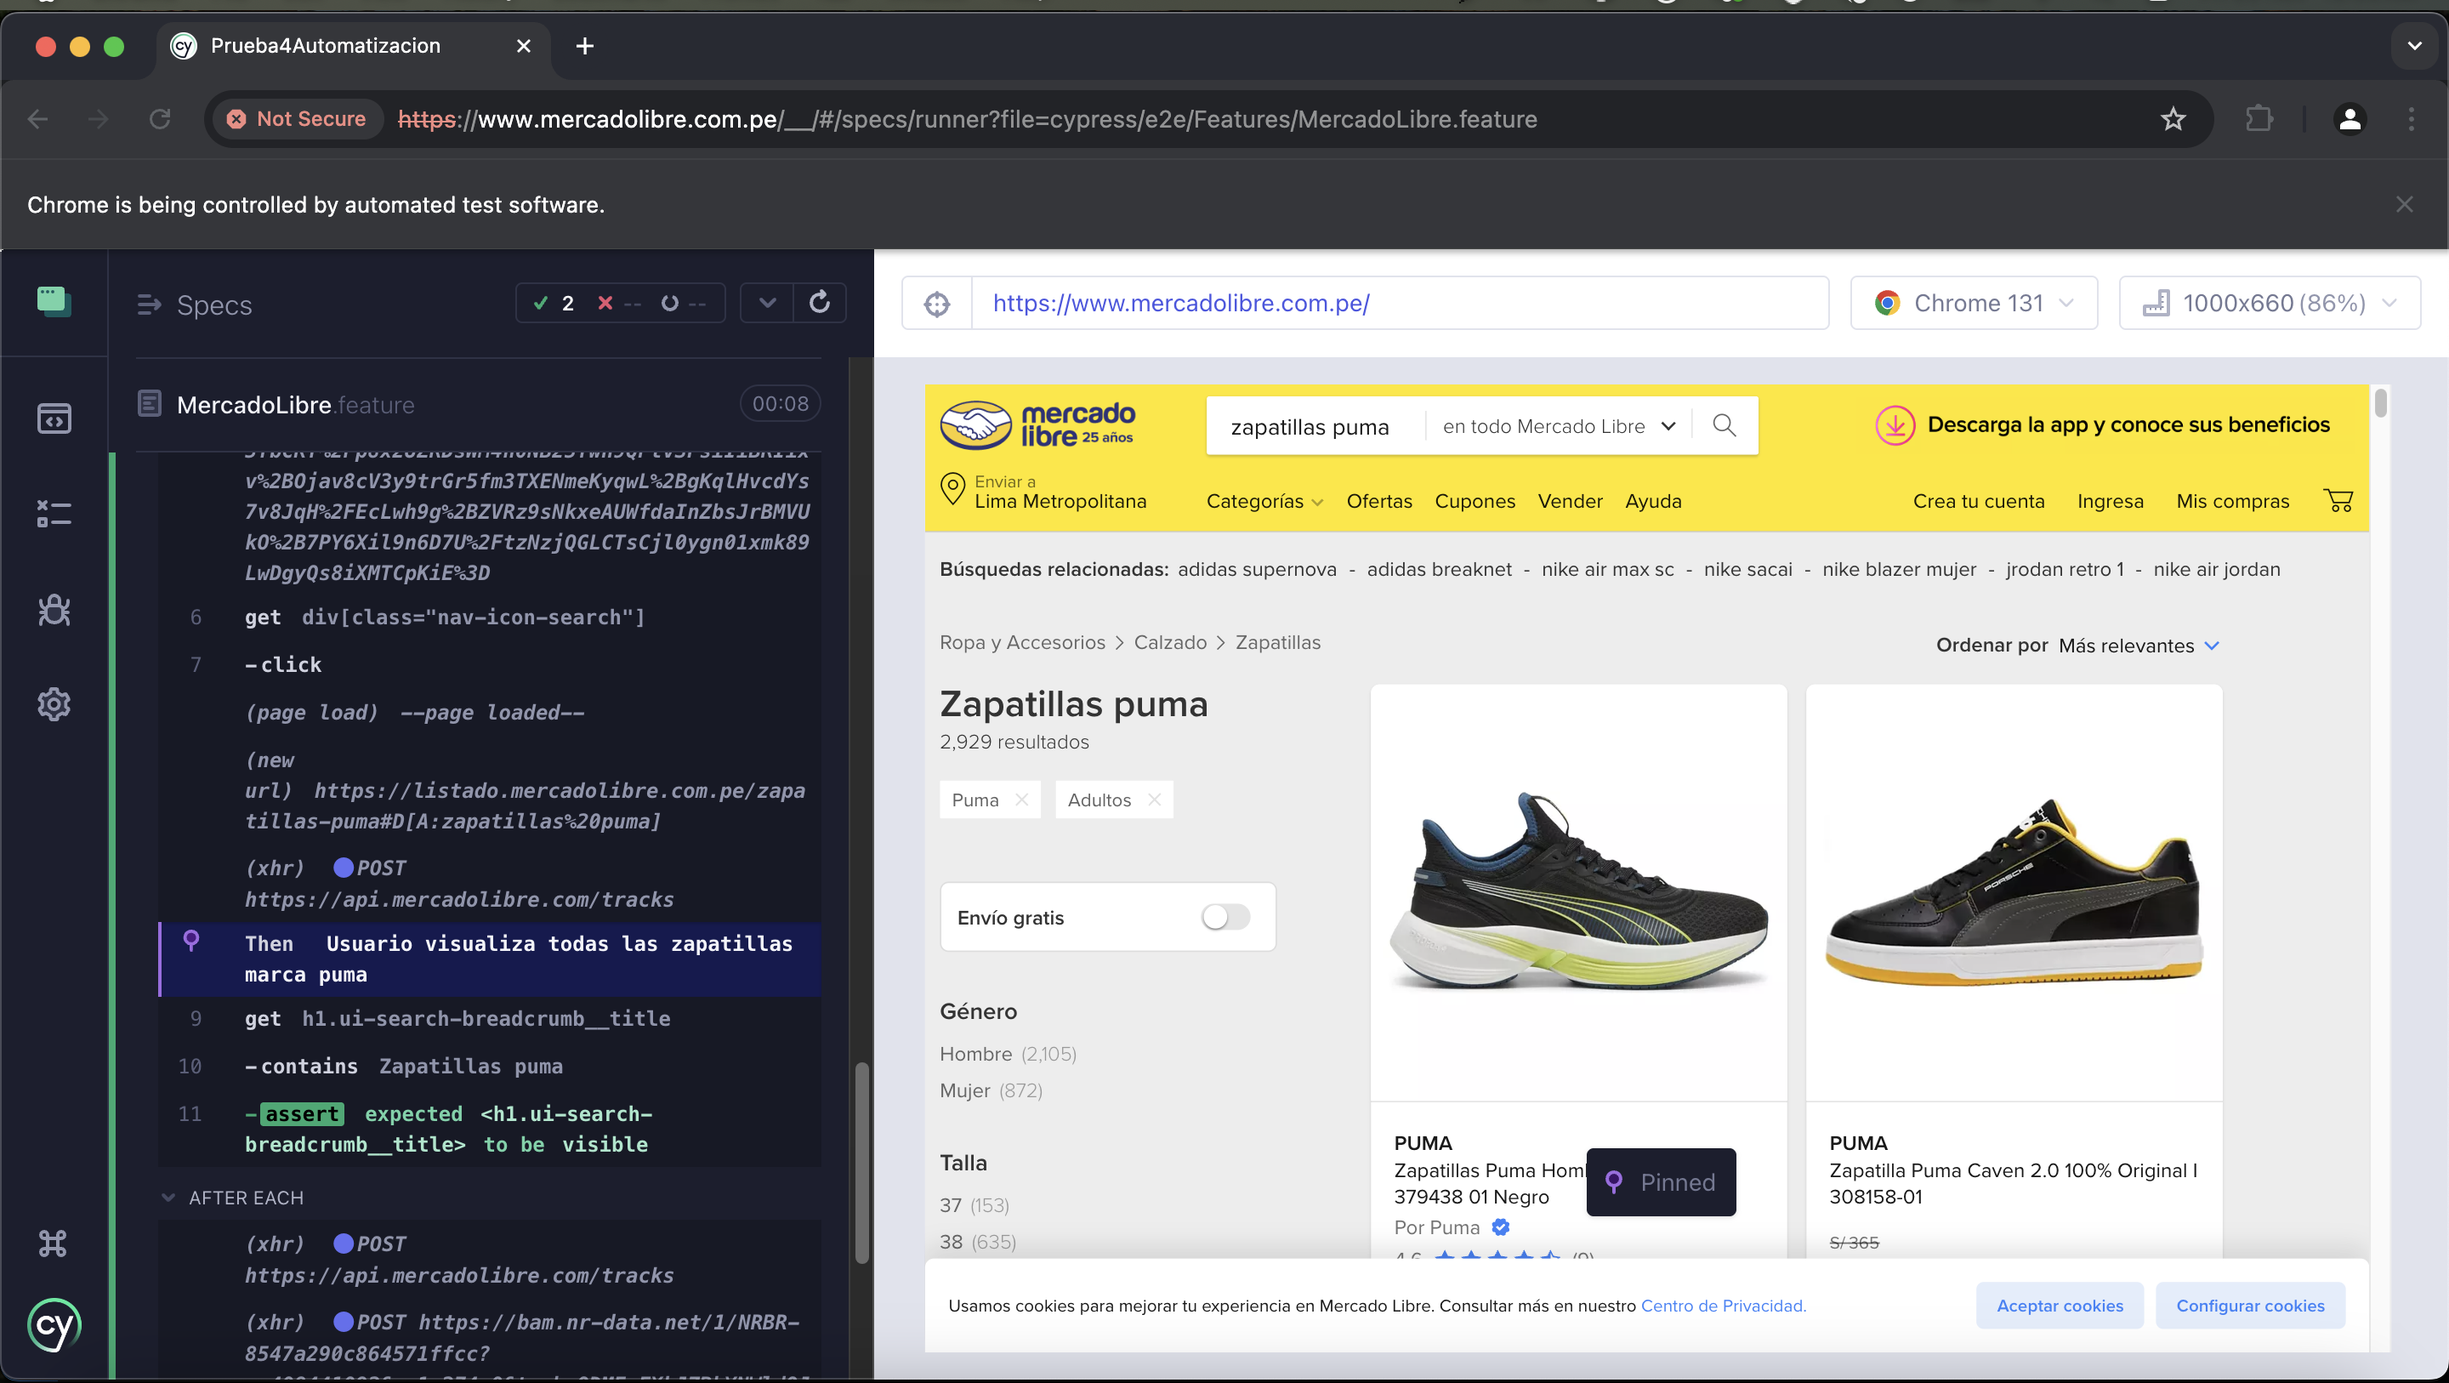
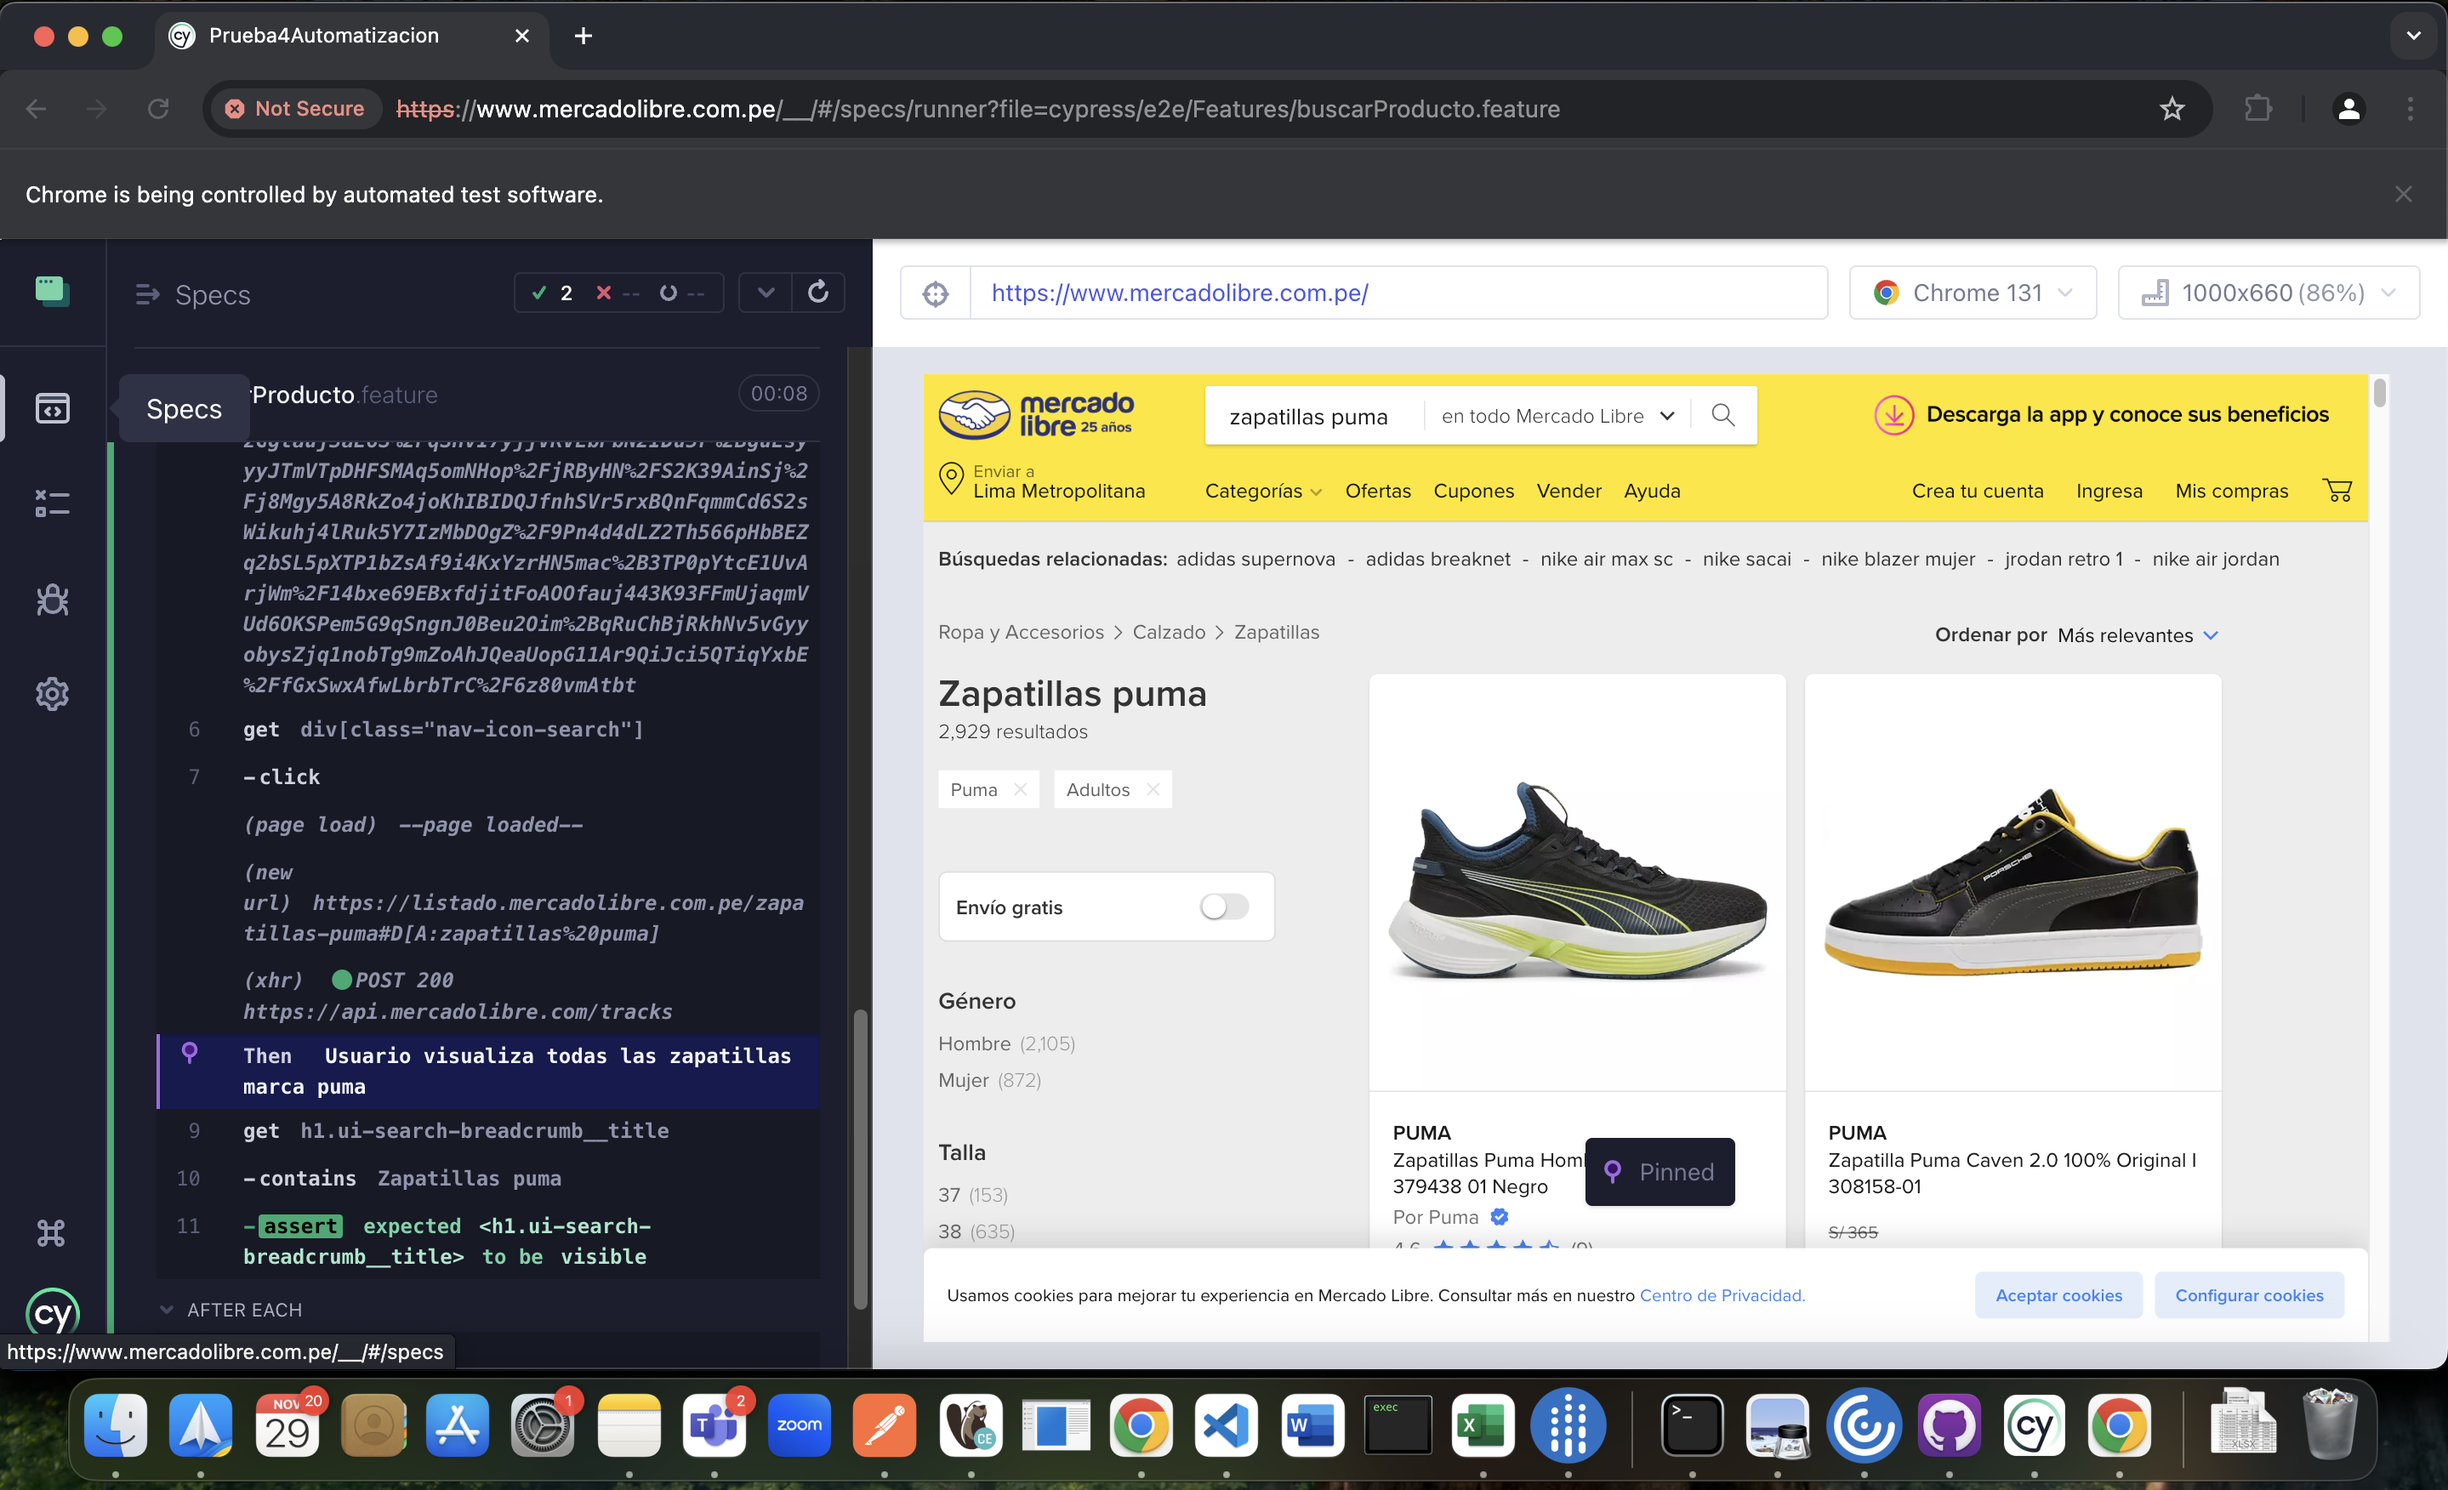
se agrego mas detalle al Readme

diff --git a/Readme.md b/Readme.md
@@ -2,7 +2,7 @@
 
 Este proyecto tiene como objetivo la automatización de pruebas funcionales para la página web de Mercado Libre utilizando el framework **Cypress** y el patrón de diseño **Page Object Model (POM)**. Los escenarios de prueba están escritos en **Gherkin** y se enlazan con el código JavaScript a través de **Cucumber**.
 
-
+**Los casos de prueba se encuentran en la ruta cypress/e2e/Features**
 ## Casos de Prueba Ejemplificados
 
 ### Feature: Buscar un Producto en Mercado Libre
@@ -13,10 +13,11 @@ Este proyecto tiene como objetivo la automatización de pruebas funcionales para
 Se verifica que al ingresar "zapatillas puma" en el buscador, se muestren los productos relacionados.
 
 **Implementación:**
-* **Flujo:**
-  1. El usuario abre la página principal de Mercado Libre.
-  2. Ingresa "zapatillas puma" en el campo de búsqueda.
-  3. Se valida que los resultados de la búsqueda correspondan a productos de la marca Puma.
+```Gherkin
+    Given Usuario abre la web de mercado Libre
+    When Usuario ingresa el producto "zapatillas puma" en el buscador
+    Then Usuario visualiza todas las zapatillas marca puma
+```
 
   **Evidencia de la ejecución**
 
@@ -30,10 +31,11 @@ Se verifica que al ingresar "zapatillas puma" en el buscador, se muestren los pr
 Se verifica que al ingresar una cadena con caracteres especiales, se muestre un mensaje indicando que no hay resultados.
 
 **Implementación:**
-* **Flujo:**
-  1. El usuario abre la página principal de Mercado Libre.
-  2. Ingresa una cadena con caracteres especiales (e.g., "$$%%&&") en el campo de búsqueda.
-  3. Se valida que se muestre un mensaje de "No se encontraron resultados".
+```Gherkin
+Given Usuario abre la web de mercado Libre
+    When Usuario ingresa el producto "$$%%&&" en el buscador
+    Then Usuario visualiza mensaje que no hay productos relacionados a la busqueda
+```
 
 **Evidencia de la ejecución**
 
@@ -45,6 +47,7 @@ Se verifica que al ingresar una cadena con caracteres especiales, se muestre un 
 - Visual Studio Code
 - Cypress
 - Google Chrome
+- NodeJs
 ## Estructura del Proyecto
 
 El proyecto está organizado en tres carpetas principales:
@@ -64,7 +67,7 @@ El proyecto está organizado en tres carpetas principales:
 3. **Step-Definitions**
    - En esta carpeta se encuentran los pasos de prueba escritos en **JavaScript** que hacen match con los pasos definidos en los escenarios de Gherkin. Esta capa es responsable de la implementación de la lógica para cada paso de los escenarios.
    - Ejemplo:
-     - `MercadoLibreStep.js`
+     - `BuscarProductoStep.js`
 
 ## Flujo de Trabajo para Ejecutar el Proyecto
 
@@ -88,5 +91,5 @@ El proyecto está organizado en tres carpetas principales:
    1. Escoger la opcion 'E2E Testing'
    2. Escoger el navegador de tu preferencia, recomendable usar Google Chrome
    3. Hacer Click en el boton 'Start E2E Testing in Chrome'
-   4. Hacer click al archivo MercadoLibre.feature
+   4. Hacer click al archivo buscarProducto.feature
    5. Se ejecutaran los casos automaticamente
